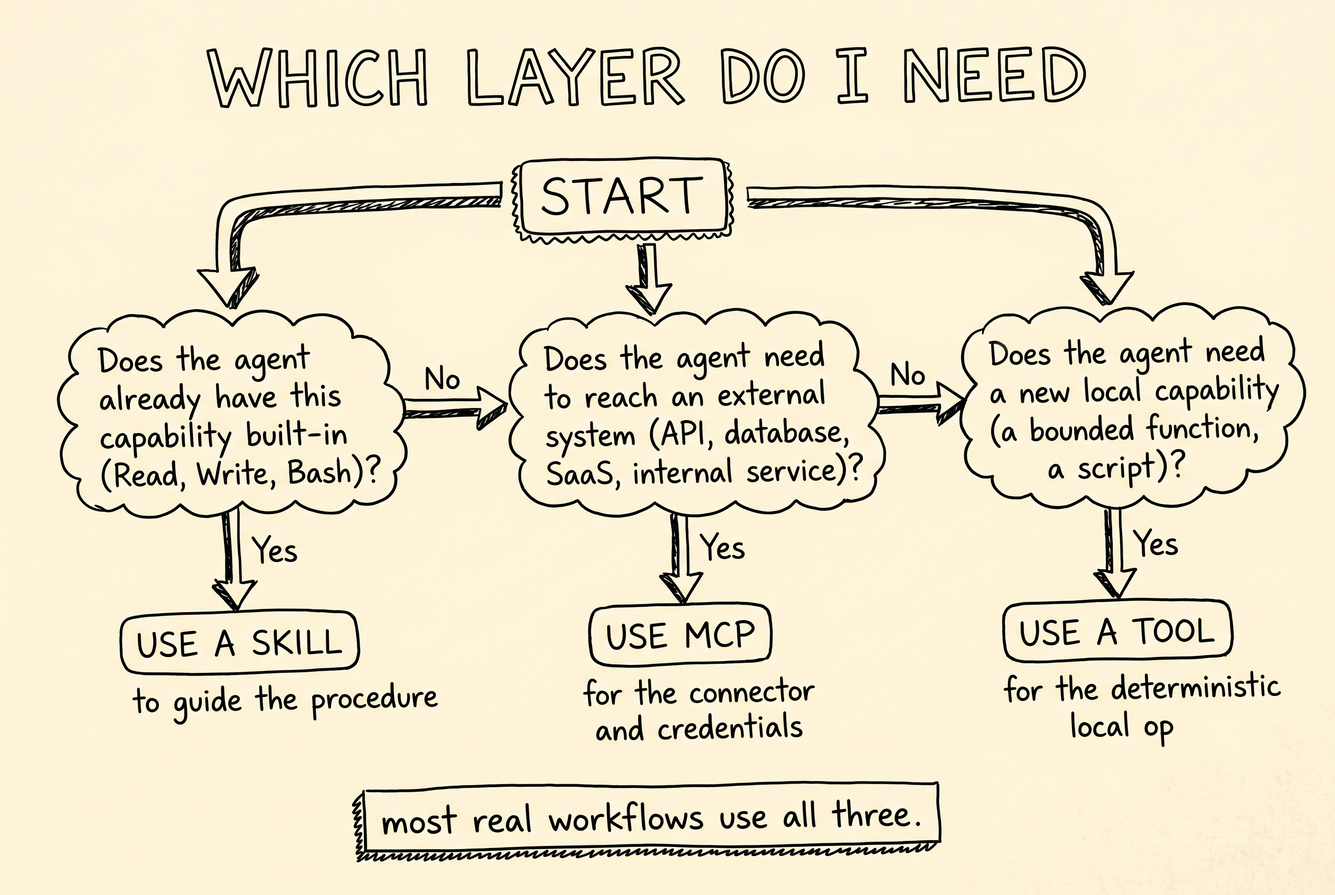
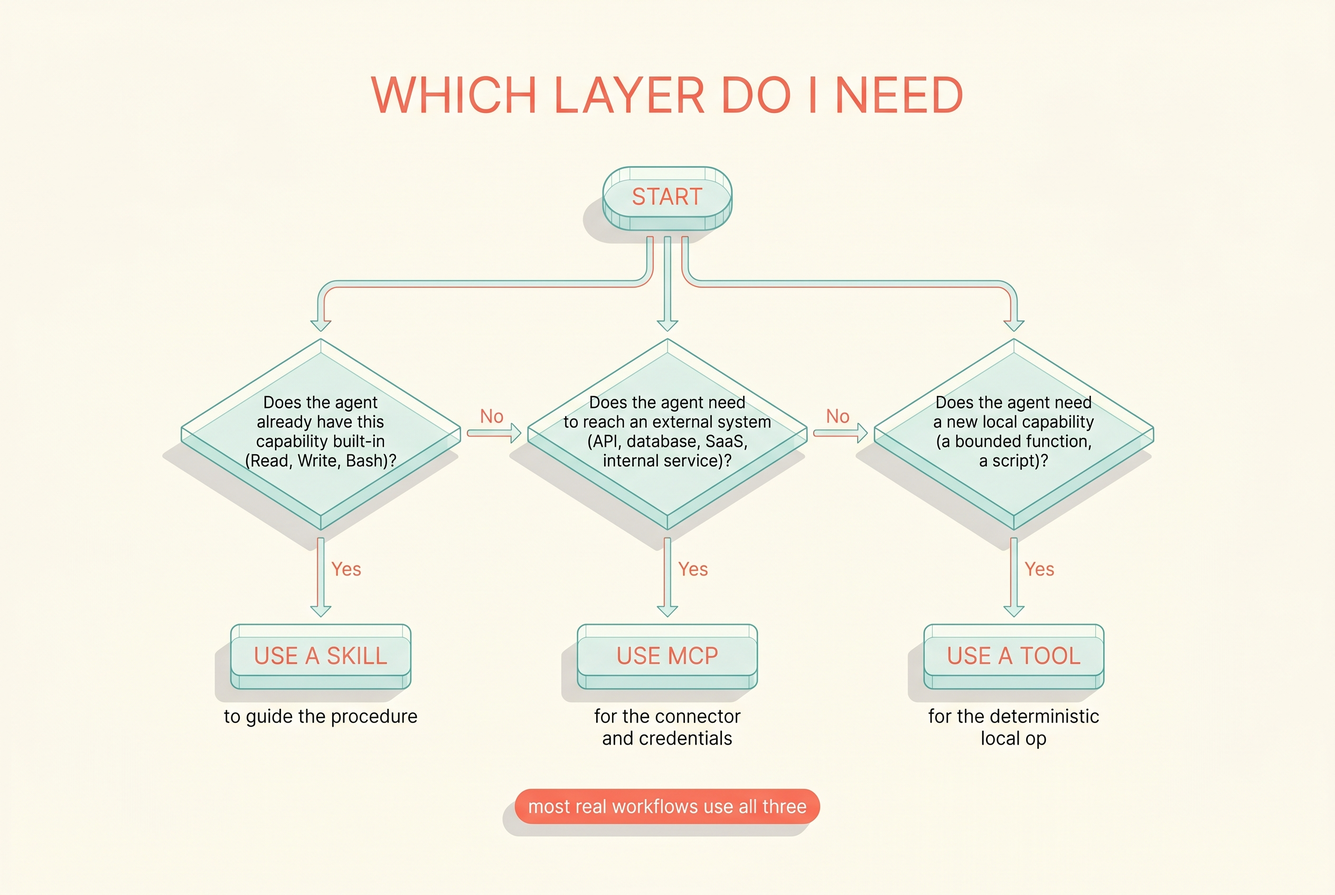
Archive diagram-2-decision.png from content: Skills MCP Tools three layers, restyled to match hero: diagram-2-decision.png

diff --git a/projects/content/INDEX.md b/projects/content/INDEX.md
@@ -58,3 +58,4 @@
 | 2026-05-16 | images | [diagram-2-decision.png](images/diagram-2-decision.png) | Skills MCP Tools three layers: diagram-2-decision.png | /Users/marcokotrotsos/PERSONAL/Content/drafts/skills-mcp-tools-three-layers/diagram-2-decision.png |
 | 2026-05-16 | images | [diagram-3-architecture.png](images/diagram-3-architecture.png) | Skills MCP Tools three layers: diagram-3-architecture.png | /Users/marcokotrotsos/PERSONAL/Content/drafts/skills-mcp-tools-three-layers/diagram-3-architecture.png |
 | 2026-05-16 | images | [diagram-1-anatomy.png](images/diagram-1-anatomy.png) | Skills MCP Tools three layers, restyled to match hero: diagram-1-anatomy.png | /Users/marcokotrotsos/PERSONAL/Content/drafts/skills-mcp-tools-three-layers/diagram-1-anatomy.png |
+| 2026-05-16 | images | [diagram-2-decision.png](images/diagram-2-decision.png) | Skills MCP Tools three layers, restyled to match hero: diagram-2-decision.png | /Users/marcokotrotsos/PERSONAL/Content/drafts/skills-mcp-tools-three-layers/diagram-2-decision.png |

diff --git a/INDEX.md b/INDEX.md
@@ -145,3 +145,4 @@
 | 2026-05-16 | content | images | [diagram-2-decision.png](projects/content/images/diagram-2-decision.png) | Skills MCP Tools three layers: diagram-2-decision.png |
 | 2026-05-16 | content | images | [diagram-3-architecture.png](projects/content/images/diagram-3-architecture.png) | Skills MCP Tools three layers: diagram-3-architecture.png |
 | 2026-05-16 | content | images | [diagram-1-anatomy.png](projects/content/images/diagram-1-anatomy.png) | Skills MCP Tools three layers, restyled to match hero: diagram-1-anatomy.png |
+| 2026-05-16 | content | images | [diagram-2-decision.png](projects/content/images/diagram-2-decision.png) | Skills MCP Tools three layers, restyled to match hero: diagram-2-decision.png |
